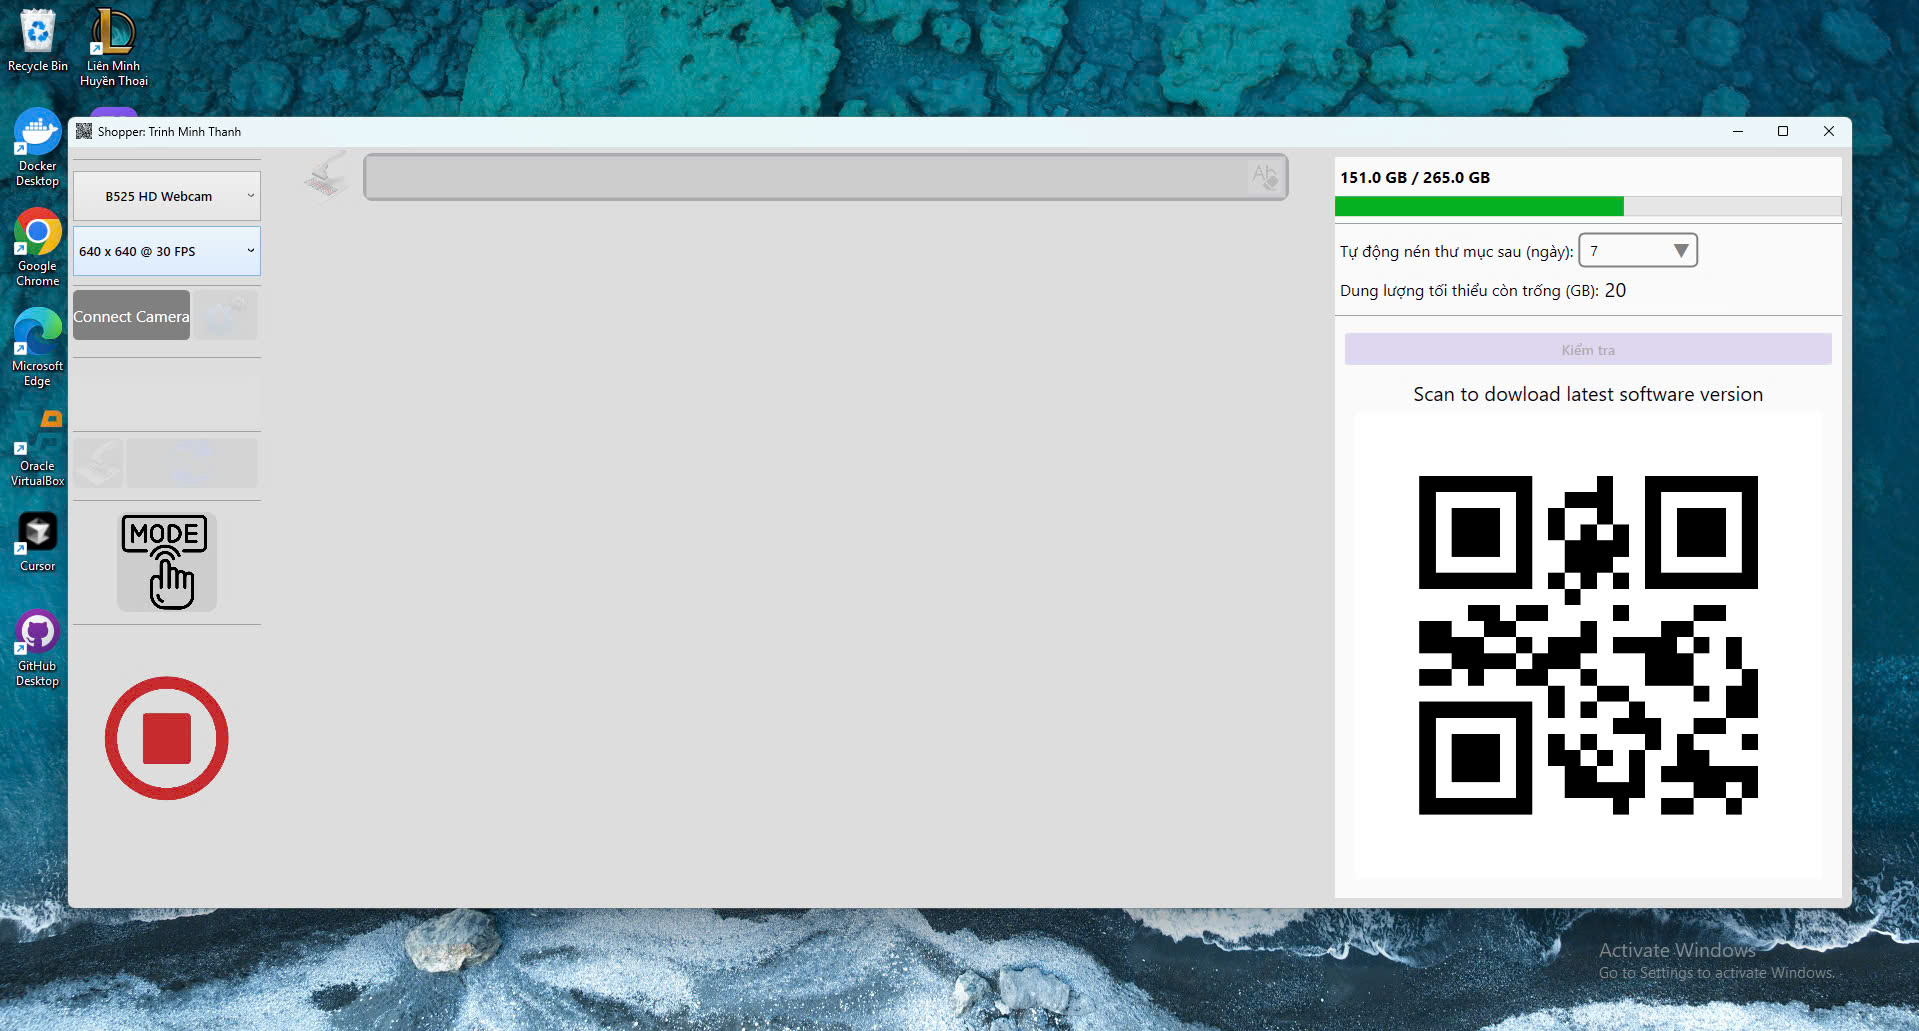
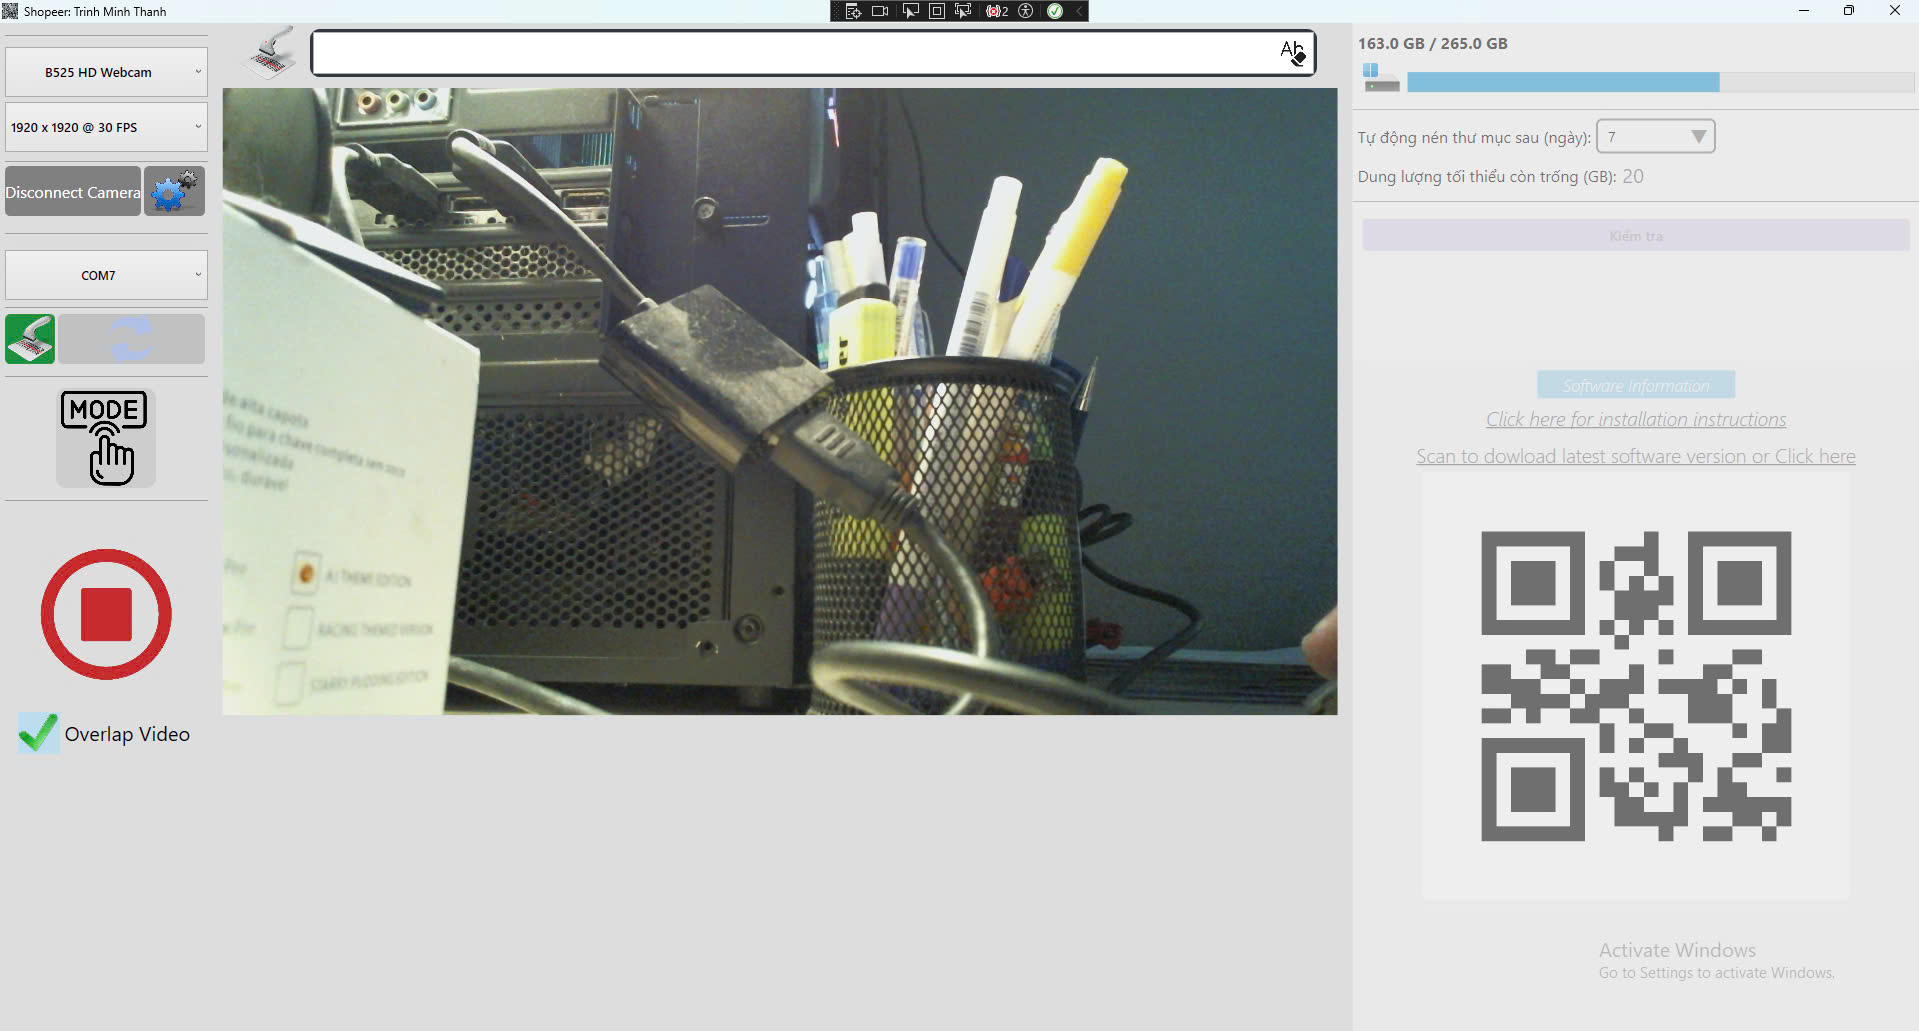
update: update update Introducing the product and its features

diff --git a/README.md b/README.md
@@ -1,4 +1,9 @@
 # ShopeeScanner-Release
+
+## Video Demo Sản phần 
+*[Link_Demo_ShopeeScanner](https://youtu.be/Wf74l-4gErU)*
+
+
 ###  Giới thiệu và mô tả tính năng 
 ```
 1. Ứng dụng này được tạo ra với mục đích hỗ trợ ghi hình quá trình đóng gói sản phẩm bằng cách sử dụng máy quét mã vạch thông qua giao tiếp USB-COM.
@@ -51,5 +56,8 @@ git clone https://github.com/VayneMai021296/ShopeeScanner-Release.git
 <img src="images/5.jpg" alt="Screenshot" width="auto" height="auto"><br>
 <img src="images/6.jpg" alt="Screenshot" width="auto" height="auto"><br>
 <img src="images/7.jpg" alt="Screenshot" width="auto" height="auto"><br>
+<img src="images/8.jpg" alt="Screenshot" width="auto" height="auto"><br>
+<img src="images/9.jpg" alt="Screenshot" width="auto" height="auto"><br>
+
 
 
